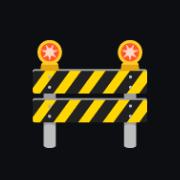
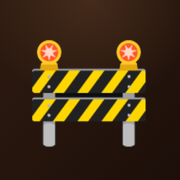
Icône marron et départ au 10 novembre

diff --git a/index.html b/index.html
@@ -238,7 +238,7 @@ tr:last-child td{border-bottom:0}
 const OBJ=['SALAT','SPORT','TRAVAIL','APPRENTISSAGE','LECTURE','NO JUNK FOOD','NO THC','NO TABAC','NO PORN'];
 const EX=[{id:'tractions',n:'Tractions'},{id:'dips',n:'Dips'},{id:'pompes',n:'Pompes'},{id:'squats',n:'Squats'}];
 /* Premier jour de suivi : rien avant cette date n'est affiché ni compté */
-const START='2026-11-09',START_D=new Date(START.replace(/-/g,'/'));
+const START='2026-11-10',START_D=new Date(START.replace(/-/g,'/'));
 const SK='pdc-tracker-v2',SK_PREV=SK+'-avant-import',SK_RESCUE=SK+'-secours-';
 const CHECK='<svg width="15" height="15" viewBox="0 0 24 24" fill="none" stroke="currentColor" stroke-width="3.5" stroke-linecap="round" stroke-linejoin="round"><path d="M5 12l5 5 9-10"/></svg>';
 const LOCK='<svg width="18" height="18" viewBox="0 0 24 24" fill="none" stroke="currentColor" stroke-width="2.2" stroke-linecap="round"><rect x="5" y="11" width="14" height="10" rx="2"/><path d="M8 11V8a4 4 0 0 1 8 0v3"/></svg>';
@@ -254,7 +254,7 @@ function load(){const s=lsGet(SK);if(!s)return memCopy||{days:{},meta:{}};
   try{const d=JSON.parse(s);if(isDB(d))return{days:d.days,meta:d.meta||{}}}catch(e){}
   /* Données illisibles : on les met de côté au lieu de les écraser */
   lsSet(SK_RESCUE+Date.now(),s);rescued=true;return{days:{},meta:{}}}
-function normDB(d){for(const k of Object.keys(d.days)){const x=d.days[k];if(!/^\d{4}-\d{2}-\d{2}$/.test(k)){delete d.days[k];continue}
+function normDB(d){for(const k of Object.keys(d.days)){const x=d.days[k];if(!/^\d{4}-\d{2}-\d{2}$/.test(k)||k<START){delete d.days[k];continue}
   if(!x.obj||typeof x.obj!=='object')x.obj={};if(!x.sets||typeof x.sets!=='object')x.sets={};
   for(const e of Object.keys(x.sets))x.sets[e]=Array.isArray(x.sets[e])?x.sets[e].map(Number).filter(v=>v>0):[];
   x.planks=Array.isArray(x.planks)?x.planks.map(Number).filter(v=>v>0):[];
@@ -284,7 +284,7 @@ const fmtMin=m=>{m=Math.round(m||0);const h=Math.floor(m/60);return h?`${h} h ${
 const fmtPace=(min,km)=>{if(!(km>0&&min>0))return'–';let p=min/km,m=Math.floor(p),s=Math.round((p-m)*60);if(s===60){m++;s=0}return`${m}:${pad(s)} /km`};
 
 /* ---------- État ---------- */
-let cur=today0(),tab='obj',pdcSub='muscu',period='week',sel='tractions',stepVal={},armed=0,draftC=null,draftP=null;
+let cur=today0()<START_D?new Date(START_D):today0(),tab='obj',pdcSub='muscu',period='week',sel='tractions',stepVal={},armed=0,draftC=null,draftP=null;
 
 /* ---------- Logique ---------- */
 const hasSport=d=>!!d&&(Object.values(d.sets||{}).some(a=>a.length)||(d.course&&d.course.d>0)||(d.planks&&d.planks.length>0));

diff --git a/sw.js b/sw.js
@@ -1,6 +1,6 @@
 /* PDC Tracker - mode hors ligne.
    Changer VERSION à chaque mise à jour de l'app pour forcer le rafraîchissement du cache. */
-const VERSION = 'pdc-v18';
+const VERSION = 'pdc-v19';
 const LOCAL = ['./', 'index.html', 'manifest.webmanifest', 'icon-192.png', 'icon-512.png', 'icon-maskable-512.png', 'apple-touch-icon.png'];
 
 self.addEventListener('install', e => {
